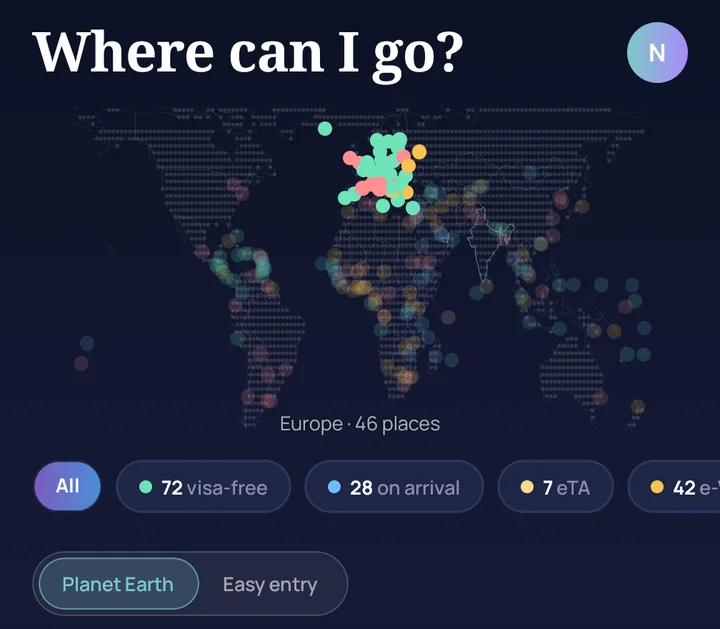
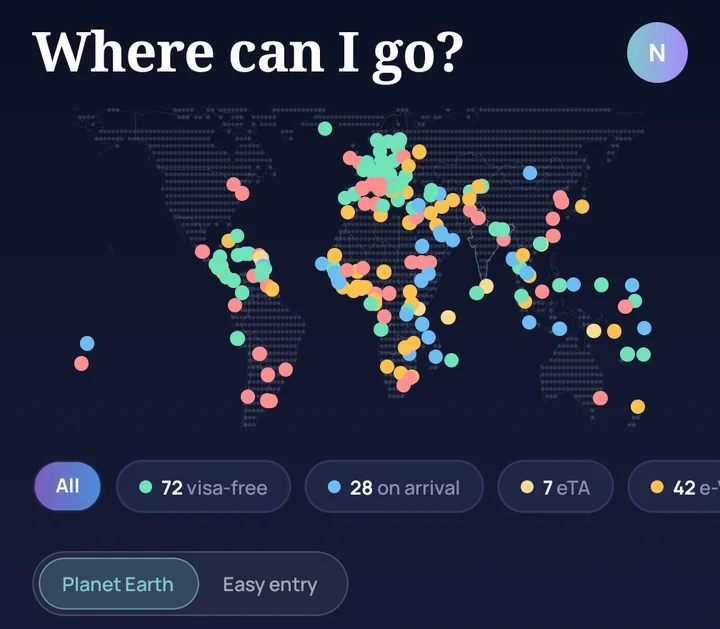
How it works step 1: the app's map unfiltered (HQ #119) - All, every dot lit, no region label; same test profile (Indian passport, lives in the UAE, Schengen visa), release v71

diff --git a/index.html b/index.html
@@ -266,7 +266,7 @@
   <div class="wrap">
     <div class="shead c rv"><span class="tag">How it works</span><h2>From a thought <span class="grad">to a trip</span></h2><p class="lede">Four steps, one app — from "what if" to a plan in your pocket.</p></div>
     <ol class="story">
-      <li class="step rv"><span class="num">1</span><div class="txt"><h3>Pick a place</h3><p>Type a city, or open the map and see where your passport takes you.</p></div><figure class="shot"><img src="/assets/app/explore.webp?v=e2664131" alt="brimm's Where can I go? map with Europe picked, each place coloured by the visa answer for the passport" width="720" height="629" loading="lazy" decoding="async"><figcaption class="cap">Example: Indian passport, living in the UAE, with a Schengen visa.</figcaption></figure></li>
+      <li class="step rv"><span class="num">1</span><div class="txt"><h3>Pick a place</h3><p>Type a city, or open the map and see where your passport takes you.</p></div><figure class="shot"><img src="/assets/app/explore.webp?v=20d6f531" alt="brimm's Where can I go? map, each place coloured by the visa answer for the passport" width="720" height="629" loading="lazy" decoding="async"><figcaption class="cap">Example: Indian passport, living in the UAE, with a Schengen visa.</figcaption></figure></li>
       <li class="step rv"><span class="num">2</span><div class="txt"><h3>We check the visa</h3><p>For your passport and where you live. When there's something to apply for, the official site is one tap away.</p></div><figure class="shot"><img src="/assets/app/visa.webp?v=0ddac656" alt="brimm's visa readiness sheet for a trip to Paris and the Swiss Alps" width="720" height="593" loading="lazy" decoding="async"></figure></li>
       <li class="step rv"><span class="num">3</span><div class="txt"><h3>We plan the days</h3><p>Real places, times that work, room to breathe. Every day is yours to tweak.</p></div><figure class="shot"><img src="/assets/app/planning.webp?v=52589e52" alt="Two days of a Swiss Alps trip planned in brimm, hour by hour, with free time between stops" width="720" height="681" loading="lazy" decoding="async"></figure></li>
       <li class="step rv"><span class="num">4</span><div class="txt"><h3>Off you go</h3><p>Share a card with your crew, keep the PDF, book when you're ready.</p></div><figure class="shot"><img src="/assets/app/share.webp?v=c0c731f5" alt="A brimm share card for a Petra and Delhi trip, with its passport stamps" width="720" height="884" loading="lazy" decoding="async"></figure></li>
@@ -399,7 +399,7 @@
   // Less motion asked for: the first photo stays, nothing moves.
   // every address built below asks av() for its fingerprint (HQ #94: a changed photo gets a new address, so no phone keeps the old one)
 /* ASSET-V:START (written by tools/stamp-assets.js) */
-  var AV = {"app/also.webp":"cdd0a7aa","app/ask.webp":"ae39a017","app/besttime.webp":"d4ddf6e2","app/budget.webp":"dda03dbe","app/chip-petra.webp":"39472d30","app/chip-tbilisi.webp":"83dbde8c","app/day.webp":"7b109c97","app/explore.webp":"e2664131","app/globe.webp":"0f9b79ec","app/home-dubai.webp":"543b5324","app/home-paris.webp":"abe58dd3","app/home-singapore.webp":"211e1ef4","app/planning.webp":"52589e52","app/share.webp":"c0c731f5","app/travelmap.webp":"1ccfdc11","app/uae.webp":"93ff21cf","app/visa.webp":"0ddac656","hero/abu-dhabi-960.jpg":"b495e8d6","hero/abu-dhabi.jpg":"3c96eb57","hero/baku-960.jpg":"2e6baacf","hero/baku.jpg":"ee3646d0","hero/bali-960.jpg":"a685dd7e","hero/bali-wall.jpg":"aad88f09","hero/bali.jpg":"7ca5cab7","hero/bangkok-960.jpg":"117b2ed4","hero/bangkok.jpg":"19b265f6","hero/barcelona-960.jpg":"acccb6ac","hero/cairo-960.jpg":"76a563a4","hero/cairo.jpg":"1c61ad8c","hero/cappadocia-960.jpg":"06f9c241","hero/cappadocia.jpg":"a687e9fa","hero/chiang-mai-960.jpg":"c4c6c698","hero/chiang-mai.jpg":"4d976f59","hero/doha-960.jpg":"056dbd39","hero/doha.jpg":"df99608a","hero/dubai-960.jpg":"b76ada80","hero/dubai.jpg":"064d296c","hero/goa-960.jpg":"72a9728a","hero/goa.jpg":"6beab113","hero/istanbul-960.jpg":"6e2f39fc","hero/istanbul-wall.jpg":"9a3cd34e","hero/istanbul.jpg":"ffcbb2fb","hero/kyoto-960.jpg":"e53f0be6","hero/kyoto.jpg":"75c1ecd7","hero/lisbon-960.jpg":"de79f1da","hero/lisbon.jpg":"1238d5ba","hero/london-960.jpg":"c7d7e65d","hero/london.jpg":"7111b088","hero/machu-picchu-960.jpg":"d9f8ff65","hero/machu-picchu.jpg":"70fb75d0","hero/maldives-960.jpg":"3dd16df2","hero/maldives.jpg":"08fbebd2","hero/marrakech-960.jpg":"0cba6f1b","hero/marrakech.jpg":"8accbdf5","hero/muscat-960.jpg":"a1c385fe","hero/muscat.jpg":"7089d9ff","hero/paris-960.jpg":"29bad64f","hero/paris-wall.jpg":"ec1a3818","hero/paris.jpg":"d1cf2fac","hero/petra-960.jpg":"8d74744c","hero/petra.jpg":"b8664f04","hero/pokhara-960.jpg":"78856d46","hero/pokhara.jpg":"273b11a2","hero/queenstown-960.jpg":"280d095c","hero/queenstown.jpg":"2177e851","hero/rome-960.jpg":"2fb2dc83","hero/singapore-960.jpg":"e000fc0c","hero/singapore.jpg":"d4d8044b","hero/tbilisi-960.jpg":"1110d453","hero/tbilisi-spot.jpg":"8b830c70","hero/tbilisi.jpg":"06f370b5","hero/tokyo-960.jpg":"22140087","hero/tokyo.jpg":"20a36e7e","hero/wadi-rum-960.jpg":"e25d3594","hero/wadi-rum.jpg":"ac1dd86f","hero/zanzibar-960.jpg":"71947f8c","hero/zanzibar.jpg":"cc33c1b5","hero/zurich-960.jpg":"0b56dd11","hero/zurich.jpg":"c5348f3f"};
+  var AV = {"app/also.webp":"cdd0a7aa","app/ask.webp":"ae39a017","app/besttime.webp":"d4ddf6e2","app/budget.webp":"dda03dbe","app/chip-petra.webp":"39472d30","app/chip-tbilisi.webp":"83dbde8c","app/day.webp":"7b109c97","app/explore.webp":"20d6f531","app/globe.webp":"0f9b79ec","app/home-dubai.webp":"543b5324","app/home-paris.webp":"abe58dd3","app/home-singapore.webp":"211e1ef4","app/planning.webp":"52589e52","app/share.webp":"c0c731f5","app/travelmap.webp":"1ccfdc11","app/uae.webp":"93ff21cf","app/visa.webp":"0ddac656","hero/abu-dhabi-960.jpg":"b495e8d6","hero/abu-dhabi.jpg":"3c96eb57","hero/baku-960.jpg":"2e6baacf","hero/baku.jpg":"ee3646d0","hero/bali-960.jpg":"a685dd7e","hero/bali-wall.jpg":"aad88f09","hero/bali.jpg":"7ca5cab7","hero/bangkok-960.jpg":"117b2ed4","hero/bangkok.jpg":"19b265f6","hero/barcelona-960.jpg":"acccb6ac","hero/cairo-960.jpg":"76a563a4","hero/cairo.jpg":"1c61ad8c","hero/cappadocia-960.jpg":"06f9c241","hero/cappadocia.jpg":"a687e9fa","hero/chiang-mai-960.jpg":"c4c6c698","hero/chiang-mai.jpg":"4d976f59","hero/doha-960.jpg":"056dbd39","hero/doha.jpg":"df99608a","hero/dubai-960.jpg":"b76ada80","hero/dubai.jpg":"064d296c","hero/goa-960.jpg":"72a9728a","hero/goa.jpg":"6beab113","hero/istanbul-960.jpg":"6e2f39fc","hero/istanbul-wall.jpg":"9a3cd34e","hero/istanbul.jpg":"ffcbb2fb","hero/kyoto-960.jpg":"e53f0be6","hero/kyoto.jpg":"75c1ecd7","hero/lisbon-960.jpg":"de79f1da","hero/lisbon.jpg":"1238d5ba","hero/london-960.jpg":"c7d7e65d","hero/london.jpg":"7111b088","hero/machu-picchu-960.jpg":"d9f8ff65","hero/machu-picchu.jpg":"70fb75d0","hero/maldives-960.jpg":"3dd16df2","hero/maldives.jpg":"08fbebd2","hero/marrakech-960.jpg":"0cba6f1b","hero/marrakech.jpg":"8accbdf5","hero/muscat-960.jpg":"a1c385fe","hero/muscat.jpg":"7089d9ff","hero/paris-960.jpg":"29bad64f","hero/paris-wall.jpg":"ec1a3818","hero/paris.jpg":"d1cf2fac","hero/petra-960.jpg":"8d74744c","hero/petra.jpg":"b8664f04","hero/pokhara-960.jpg":"78856d46","hero/pokhara.jpg":"273b11a2","hero/queenstown-960.jpg":"280d095c","hero/queenstown.jpg":"2177e851","hero/rome-960.jpg":"2fb2dc83","hero/singapore-960.jpg":"e000fc0c","hero/singapore.jpg":"d4d8044b","hero/tbilisi-960.jpg":"1110d453","hero/tbilisi-spot.jpg":"8b830c70","hero/tbilisi.jpg":"06f370b5","hero/tokyo-960.jpg":"22140087","hero/tokyo.jpg":"20a36e7e","hero/wadi-rum-960.jpg":"e25d3594","hero/wadi-rum.jpg":"ac1dd86f","hero/zanzibar-960.jpg":"71947f8c","hero/zanzibar.jpg":"cc33c1b5","hero/zurich-960.jpg":"0b56dd11","hero/zurich.jpg":"c5348f3f"};
   function av(u) { var k = u.replace(/^\/assets\//, ''); return AV[k] ? u + '?v=' + AV[k] : u; }
   /* ASSET-V:END */
 /* PHOTOS:START (written by tools/build-home.js) */

diff --git a/check.html b/check.html
@@ -254,7 +254,7 @@
   // the engine build's fingerprint — written by brimm-ai tools/website-check/build-engine.js, so a new engine is never served from a cache
   // every photo address built below asks av() for its fingerprint (HQ #94)
   /* ASSET-V:START (written by tools/stamp-assets.js) */
-  var AV = {"app/also.webp":"cdd0a7aa","app/ask.webp":"ae39a017","app/besttime.webp":"d4ddf6e2","app/budget.webp":"dda03dbe","app/chip-petra.webp":"39472d30","app/chip-tbilisi.webp":"83dbde8c","app/day.webp":"7b109c97","app/explore.webp":"e2664131","app/globe.webp":"0f9b79ec","app/home-dubai.webp":"543b5324","app/home-paris.webp":"abe58dd3","app/home-singapore.webp":"211e1ef4","app/planning.webp":"52589e52","app/share.webp":"c0c731f5","app/travelmap.webp":"1ccfdc11","app/uae.webp":"93ff21cf","app/visa.webp":"0ddac656","hero/abu-dhabi-960.jpg":"b495e8d6","hero/abu-dhabi.jpg":"3c96eb57","hero/baku-960.jpg":"2e6baacf","hero/baku.jpg":"ee3646d0","hero/bali-960.jpg":"a685dd7e","hero/bali-wall.jpg":"aad88f09","hero/bali.jpg":"7ca5cab7","hero/bangkok-960.jpg":"117b2ed4","hero/bangkok.jpg":"19b265f6","hero/barcelona-960.jpg":"acccb6ac","hero/cairo-960.jpg":"76a563a4","hero/cairo.jpg":"1c61ad8c","hero/cappadocia-960.jpg":"06f9c241","hero/cappadocia.jpg":"a687e9fa","hero/chiang-mai-960.jpg":"c4c6c698","hero/chiang-mai.jpg":"4d976f59","hero/doha-960.jpg":"056dbd39","hero/doha.jpg":"df99608a","hero/dubai-960.jpg":"b76ada80","hero/dubai.jpg":"064d296c","hero/goa-960.jpg":"72a9728a","hero/goa.jpg":"6beab113","hero/istanbul-960.jpg":"6e2f39fc","hero/istanbul-wall.jpg":"9a3cd34e","hero/istanbul.jpg":"ffcbb2fb","hero/kyoto-960.jpg":"e53f0be6","hero/kyoto.jpg":"75c1ecd7","hero/lisbon-960.jpg":"de79f1da","hero/lisbon.jpg":"1238d5ba","hero/london-960.jpg":"c7d7e65d","hero/london.jpg":"7111b088","hero/machu-picchu-960.jpg":"d9f8ff65","hero/machu-picchu.jpg":"70fb75d0","hero/maldives-960.jpg":"3dd16df2","hero/maldives.jpg":"08fbebd2","hero/marrakech-960.jpg":"0cba6f1b","hero/marrakech.jpg":"8accbdf5","hero/muscat-960.jpg":"a1c385fe","hero/muscat.jpg":"7089d9ff","hero/paris-960.jpg":"29bad64f","hero/paris-wall.jpg":"ec1a3818","hero/paris.jpg":"d1cf2fac","hero/petra-960.jpg":"8d74744c","hero/petra.jpg":"b8664f04","hero/pokhara-960.jpg":"78856d46","hero/pokhara.jpg":"273b11a2","hero/queenstown-960.jpg":"280d095c","hero/queenstown.jpg":"2177e851","hero/rome-960.jpg":"2fb2dc83","hero/singapore-960.jpg":"e000fc0c","hero/singapore.jpg":"d4d8044b","hero/tbilisi-960.jpg":"1110d453","hero/tbilisi-spot.jpg":"8b830c70","hero/tbilisi.jpg":"06f370b5","hero/tokyo-960.jpg":"22140087","hero/tokyo.jpg":"20a36e7e","hero/wadi-rum-960.jpg":"e25d3594","hero/wadi-rum.jpg":"ac1dd86f","hero/zanzibar-960.jpg":"71947f8c","hero/zanzibar.jpg":"cc33c1b5","hero/zurich-960.jpg":"0b56dd11","hero/zurich.jpg":"c5348f3f"};
+  var AV = {"app/also.webp":"cdd0a7aa","app/ask.webp":"ae39a017","app/besttime.webp":"d4ddf6e2","app/budget.webp":"dda03dbe","app/chip-petra.webp":"39472d30","app/chip-tbilisi.webp":"83dbde8c","app/day.webp":"7b109c97","app/explore.webp":"20d6f531","app/globe.webp":"0f9b79ec","app/home-dubai.webp":"543b5324","app/home-paris.webp":"abe58dd3","app/home-singapore.webp":"211e1ef4","app/planning.webp":"52589e52","app/share.webp":"c0c731f5","app/travelmap.webp":"1ccfdc11","app/uae.webp":"93ff21cf","app/visa.webp":"0ddac656","hero/abu-dhabi-960.jpg":"b495e8d6","hero/abu-dhabi.jpg":"3c96eb57","hero/baku-960.jpg":"2e6baacf","hero/baku.jpg":"ee3646d0","hero/bali-960.jpg":"a685dd7e","hero/bali-wall.jpg":"aad88f09","hero/bali.jpg":"7ca5cab7","hero/bangkok-960.jpg":"117b2ed4","hero/bangkok.jpg":"19b265f6","hero/barcelona-960.jpg":"acccb6ac","hero/cairo-960.jpg":"76a563a4","hero/cairo.jpg":"1c61ad8c","hero/cappadocia-960.jpg":"06f9c241","hero/cappadocia.jpg":"a687e9fa","hero/chiang-mai-960.jpg":"c4c6c698","hero/chiang-mai.jpg":"4d976f59","hero/doha-960.jpg":"056dbd39","hero/doha.jpg":"df99608a","hero/dubai-960.jpg":"b76ada80","hero/dubai.jpg":"064d296c","hero/goa-960.jpg":"72a9728a","hero/goa.jpg":"6beab113","hero/istanbul-960.jpg":"6e2f39fc","hero/istanbul-wall.jpg":"9a3cd34e","hero/istanbul.jpg":"ffcbb2fb","hero/kyoto-960.jpg":"e53f0be6","hero/kyoto.jpg":"75c1ecd7","hero/lisbon-960.jpg":"de79f1da","hero/lisbon.jpg":"1238d5ba","hero/london-960.jpg":"c7d7e65d","hero/london.jpg":"7111b088","hero/machu-picchu-960.jpg":"d9f8ff65","hero/machu-picchu.jpg":"70fb75d0","hero/maldives-960.jpg":"3dd16df2","hero/maldives.jpg":"08fbebd2","hero/marrakech-960.jpg":"0cba6f1b","hero/marrakech.jpg":"8accbdf5","hero/muscat-960.jpg":"a1c385fe","hero/muscat.jpg":"7089d9ff","hero/paris-960.jpg":"29bad64f","hero/paris-wall.jpg":"ec1a3818","hero/paris.jpg":"d1cf2fac","hero/petra-960.jpg":"8d74744c","hero/petra.jpg":"b8664f04","hero/pokhara-960.jpg":"78856d46","hero/pokhara.jpg":"273b11a2","hero/queenstown-960.jpg":"280d095c","hero/queenstown.jpg":"2177e851","hero/rome-960.jpg":"2fb2dc83","hero/singapore-960.jpg":"e000fc0c","hero/singapore.jpg":"d4d8044b","hero/tbilisi-960.jpg":"1110d453","hero/tbilisi-spot.jpg":"8b830c70","hero/tbilisi.jpg":"06f370b5","hero/tokyo-960.jpg":"22140087","hero/tokyo.jpg":"20a36e7e","hero/wadi-rum-960.jpg":"e25d3594","hero/wadi-rum.jpg":"ac1dd86f","hero/zanzibar-960.jpg":"71947f8c","hero/zanzibar.jpg":"cc33c1b5","hero/zurich-960.jpg":"0b56dd11","hero/zurich.jpg":"c5348f3f"};
   function av(u) { var k = u.replace(/^\/assets\//, ''); return AV[k] ? u + '?v=' + AV[k] : u; }
   /* ASSET-V:END */
   const ENGINE_V = 'e6e014a982';
